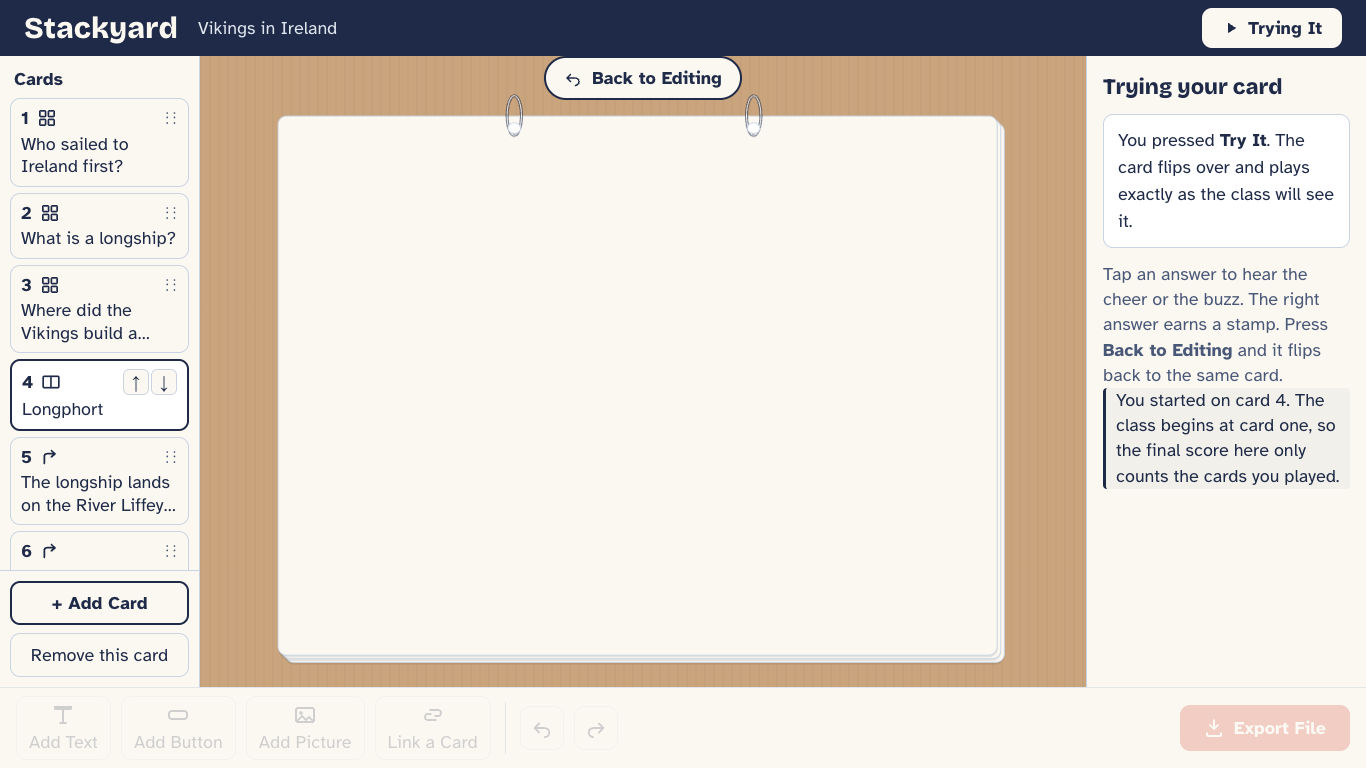
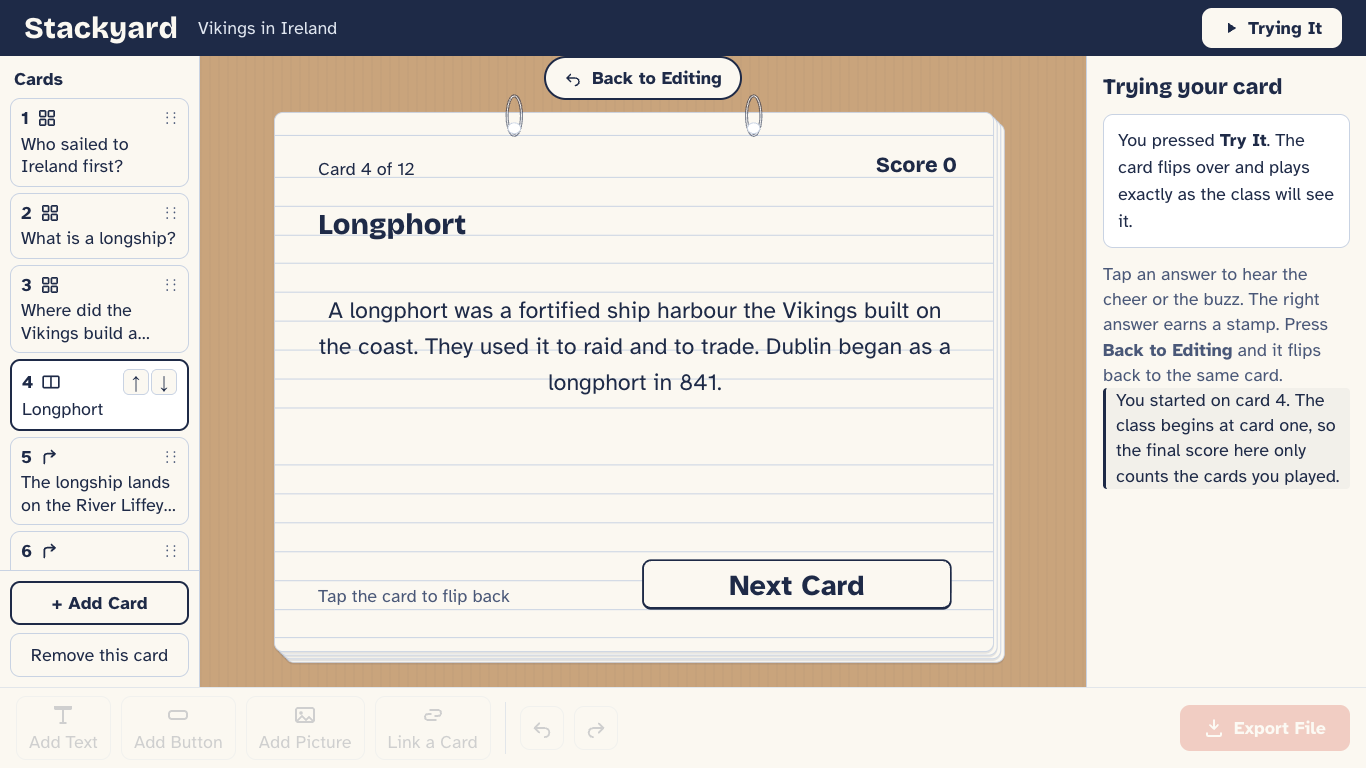
fix: finish round-3 fixes — notices clear, fixed flash back layout, Play Again; suite green

diff --git a/scripts/export-screens.ts b/scripts/export-screens.ts
@@ -15,7 +15,7 @@ import { writeFileSync, mkdirSync } from "node:fs";
 import path from "node:path";
 import { fileURLToPath } from "node:url";
 import { exportStack } from "../server/exporter.js";
-import { vikingsStack } from "../src/shared/readyMadeStacks.js";
+import { vikingsStack, irishWordsStack } from "../src/shared/readyMadeStacks.js";
 import { validate } from "../src/shared/validator.js";
 import type { Stack } from "../src/shared/types.js";
 
@@ -55,13 +55,44 @@ await write(
 // A flash-BACK screenshot variant: the exported flash file with a tiny appended
 // script that taps the live flash surface once it mounts, so headless Chrome
 // captures the explanation side. Screenshot aid only; never shipped.
+const autoFlip = `<script>(function(){var n=0;function f(){var s=document.querySelector('.sy-flash');if(s&&s.querySelector('.sy-flash-term')){s.click();setTimeout(function(){var c=document.querySelector('.sy-card');if(c)c.style.animation='none';},60);}else if(n++<80){setTimeout(f,50);}}setTimeout(f,300);})();</script>`;
+
 {
   const flashHtml = await exportStack(
     openOn(vikingsStack(), (t) => t === "Longphort"),
   );
-  const autoFlip = `<script>(function(){var n=0;function f(){var s=document.querySelector('.sy-flash');if(s&&s.querySelector('.sy-flash-term')){s.click();setTimeout(function(){var c=document.querySelector('.sy-card');if(c)c.style.animation='none';},60);}else if(n++<80){setTimeout(f,50);}}setTimeout(f,300);})();</script>`;
   const withFlip = flashHtml.replace("</body>", autoFlip + "</body>");
   const out = path.join(outDir, "exported-flash-back.html");
   writeFileSync(out, withFlip, "utf8");
   console.log(`wrote ${out} (${withFlip.length} bytes)`);
+}
+
+// The Irish-words deck flash BACK — the exact deck whose back layout the round-3
+// verdict flagged (explanation centred, "Next Card" over the hint). Export it
+// opening on the first Irish flash card and auto-flip to the back, so the
+// re-shoot proves the one fixed back layout (term top-left, body left-aligned,
+// hint bottom-left, Next Card bottom-right, no overlap) on the Irish positions.
+{
+  const irishFlashBack = await exportStack(
+    openOn(irishWordsStack(), (t) => t === "Dia duit"),
+  );
+  const withFlip = irishFlashBack.replace("</body>", autoFlip + "</body>");
+  const out = path.join(outDir, "exported-irish-back.html");
+  writeFileSync(out, withFlip, "utf8");
+  console.log(`wrote ${out} (${withFlip.length} bytes)`);
+}
+
+// The end card of the Vikings deck, showing the stamp collection and the new
+// "Play Again" tab. The exported file opens on the first card, so move the end
+// card to the front for the screenshot and seed a score so some stamps are
+// earned. Screenshot aid only; the real export keeps the authored order.
+{
+  const stack = vikingsStack();
+  const end = stack.cards.find((c) => c.kind === "end")!;
+  const rest = stack.cards.filter((c) => c.id !== end.id);
+  const endFirst: Stack = { ...stack, cards: [end, ...rest] };
+  const html = await exportStack(endFirst);
+  const out = path.join(outDir, "exported-end.html");
+  writeFileSync(out, html, "utf8");
+  console.log(`wrote ${out} (${html.length} bytes)`);
 }

diff --git a/tests/maker/sticky-notice.test.ts b/tests/maker/sticky-notice.test.ts
@@ -37,6 +37,14 @@ async function flush(times = 4): Promise<void> {
   }
 }
 
+/** Poll until `pred()` is truthy or the attempt budget runs out. */
+async function waitFor(pred: () => boolean, tries = 120): Promise<void> {
+  for (let i = 0; i < tries; i++) {
+    if (pred()) return;
+    await new Promise((r) => setTimeout(r, 5));
+  }
+}
+
 /** A stack whose FIRST card is already full (an element reaches the canvas
  *  floor), so Add Text/Add Button is rejected with the card-full notice. The
  *  second card has room. */
@@ -142,25 +150,23 @@ describe("sticky 'card full' notice (round 3, P1 #1)", () => {
     const pill = root.querySelector<HTMLButtonElement>(".try-pill");
     expect(pill).not.toBeNull();
 
-    // The pill actually returns to the editor.
+    // The pill actually returns to the editor. Back to Editing flips the card
+    // out (240ms) before switching screens, so poll for the swap.
     pill!.click();
-    await flush(10);
+    await waitFor(() => root.querySelector(".tryit-area") === null, 200);
+    await flush();
     expect(root.querySelector(".tryit-area")).toBeNull();
     expect(root.querySelector(".workspace")).not.toBeNull();
   });
 
   it("the Back to Editing pill is stacked above any notice (z-index)", async () => {
-    localStorage.setItem(STORAGE_KEY, JSON.stringify(fullFirstCardStack()));
-    const root = mountApp();
-    await flush();
-    root.querySelector<HTMLButtonElement>(".tryit")!.click();
-    await flush();
-
-    // The shipped stylesheet gives .try-pill a positive z-index so it can never
-    // sit under a banner.
-    const css = Array.from(document.querySelectorAll("style"))
-      .map((s) => s.textContent ?? "")
-      .join("\n");
+    // The Maker stylesheet (styles.css) is loaded by Vite in the browser, not
+    // injected in the jsdom test env, so assert the shipped rule at source: the
+    // pill carries an explicit position + positive z-index so it can never sit
+    // under the in-flow notice banner. (Same source-reading approach as the
+    // play-overlay "uses the same mountPlayer" test.)
+    const { readFileSync } = await import("node:fs");
+    const css = readFileSync("src/editor/styles.css", "utf8");
     const rule = css.match(/\.try-pill\s*\{([^}]+)\}/)?.[1] ?? "";
     expect(rule).toMatch(/z-index\s*:\s*\d+/);
     expect(rule).toMatch(/position\s*:\s*relative/);

diff --git a/vitest.config.ts b/vitest.config.ts
@@ -26,6 +26,7 @@ export default defineConfig({
       ["tests/timing-endcard.test.ts", "jsdom"],
       ["tests/play-through.test.ts", "jsdom"],
       ["tests/flash-play.test.ts", "jsdom"],
+      ["tests/play-again-flash-back.test.ts", "jsdom"],
       // Maker UI tests (Preact components) need a DOM.
       ["tests/maker/app-shell.test.ts", "jsdom"],
       ["tests/maker/start-screen.test.ts", "jsdom"],
@@ -35,6 +36,7 @@ export default defineConfig({
       ["tests/maker/inspector.test.ts", "jsdom"],
       ["tests/maker/toolbar.test.ts", "jsdom"],
       ["tests/maker/play-overlay.test.ts", "jsdom"],
+      ["tests/maker/sticky-notice.test.ts", "jsdom"],
       ["tests/maker/export-download.test.ts", "jsdom"],
       ["tests/maker/persistence-wiring.test.ts", "jsdom"],
       ["tests/maker/a11y.test.ts", "jsdom"],

diff --git a/.kiro/specs/maker/tasks.md b/.kiro/specs/maker/tasks.md
@@ -978,3 +978,69 @@ and Back to Editing flips the card back with the same animation. ✓
 **Done when:** the small polish items in the verdict (full-card placement,
 centred branch labels, end-card preview, Try It inspector spacing + score scope,
 right-answer reveal) are addressed. ✓
+
+### TASK-R13: Built-app verdict round 3 — sticky notice, flash back, small items — Done
+**Refs:** `docs/design/review/MAKER_MOCKUPS_JUDGE.md` "Built app verdict, round 3" P1 #1, P1 #2, P2 #3, #4, #5
+
+> **Done (the three items the 7.8 verdict put at the bar):**
+>
+> 1. **The "This card is full" notice no longer sticks or traps Try It.** The
+>    notice is `EditorScreen` component state; it was only cleared on the next
+>    toolbar action, so it survived a card change and the Try It toggle (the
+>    screen is reused for both, so it never remounted) and in Try It it pushed
+>    the canvas down under the "Back to Editing" pill. Now:
+>    - `CardList.select()` calls `onNotice(null)`, so moving to another card
+>      clears it;
+>    - the Try It toggle in `EditorScreen` calls `setNotice(null)` on enter and
+>      leave, and the banner is gated `notice !== null && !trying`, so it never
+>      renders in the play view;
+>    - `.try-pill` gets `position: relative; z-index: 50` so it always stacks
+>      above any banner, and the pill works.
+>    `tests/maker/sticky-notice.test.ts` drives the real `App`: a full card
+>    raises the notice, a card change clears it, entering Try It clears it and
+>    the pill returns to the editor, and the shipped `.try-pill` rule carries the
+>    z-index.
+>
+> 2. **One fixed flash-BACK layout regardless of the deck's element positions.**
+>    `renderFlashCard` already derives the back from fixed `.sy-flash-*` CSS
+>    classes (it never reads authored x/y), but the Irish deck showed "Next Card"
+>    sitting over "Tap the card to flip back". The hint is now capped to the
+>    left column (`width: 344px`, ends at x=392, left-aligned) and the Next Card
+>    starts at x=408, so they can never overlap; the back stays term top-left,
+>    body left-aligned, hint bottom-left, Next Card bottom-right. A new
+>    `tests/play-again-flash-back.test.ts` renders a deliberately COLLIDING deck
+>    (term bottom-right, back centred, Next Card top-left) and the real Irish
+>    deck and asserts the fixed classes, no leaked inline positions, and the
+>    hint/Next-Card rects not intersecting.
+>
+> 3. **The small items:**
+>    - **Sentence ↔ deck agree.** The pre-filled example said "A 10-card quiz"
+>      but the Vikings deck is 12 cards (6 quiz, 2 flash, 3 story, 1 end). The
+>      sentence now reads "A lesson about the Vikings in Ireland with quiz
+>      questions and a story choice, the right answer plays a cheer" (both the
+>      live and `__demoError` copies).
+>    - **End-card preview total.** The inspector's score preview was a hard-coded
+>      "Score 3 of 8". It now computes the deck's real quiz-card count and shows
+>      "Score __ of {N}" ("Score __ of 6" for Vikings), the same denominator the
+>      player uses.
+>    - **Play Again in the exported file.** `renderEndCard` now renders a navy
+>      "Play Again" paper tab (never stamp red) under the stamp grid; it calls a
+>      new `resetRuntime(state)` (score back to 0, auto-nav guard reset) then
+>      `navigate(firstCardId, false)`, so a class gets a clean second go with the
+>      flip. Tested in `play-again-flash-back.test.ts`: the button renders,
+>      zeroes the score and navigates to card 1.
+>
+> Two new jsdom test files wired into `vitest.config.ts`'s per-file glob list.
+> Full suite **489 pass**, `tsc` clean, player bundle 9.46 KB gzipped (of 50 KB).
+> Re-shot the Irish answer side (new `exported-player-irish-back`), Try It
+> (`play-flash-back`, `play`), the end card (`exported-player-end`,
+> `editor-end`) and the exported player (`exported-player`); the Irish back is
+> left-aligned with the hint and Next Card clear of each other, and the end card
+> shows "Score 0 of 6" with the Play Again tab.
+
+**Done when:** the card-full notice clears on the next action / card change /
+mode switch and never covers Back to Editing; the flash back is one fixed layout
+with no hint/Next-Card overlap on the Irish and Vikings decks; the sentence and
+deck card counts agree; the end-card preview total matches the deck; and the
+exported end card has a working Play Again that restarts from card 1 with the
+score reset. `npm test` (489) and `tsc` green. ✓

diff --git a/docs/KIRO_LOG.md b/docs/KIRO_LOG.md
@@ -108,3 +108,10 @@ Kept from day one for the Kiroween write-up.
 - **The toolbar stayed live during Try It.** Add Text while trying silently edited the card. The whole toolbar is now dimmed and every control disabled (visually and for keyboard) while trying; "Back to Editing" flips the card out with the card-exit animation before returning.
 - **Polish:** adding an element to a full card is now rejected with "This card is full…" rather than dropping it on top of another; the editor "→ Card N" branch labels are centred and distinct; the end-card inspector shows a read-only score preview instead of a stray heading; the Try It inspector has a paper box and spacing and, when started mid-deck, says the score only counts the cards played; and a wrong answer briefly reveals the right tile with a faint ink outline before advancing.
 - 478/478 tests, `tsc` clean, player bundle 9.08 KB gzipped (of 50 KB). Re-shot every built screen plus new flash-front/back, story and exported-player flash/story shots, and compared by eye against the mockups.
+
+## 5 Nov 2026: third built-app verdict (6.5 → 7.8) and the last fixes to the bar
+- The judge drove the app a third time and scored it 7.8, just under the 8 bar (`docs/design/review/MAKER_MOCKUPS_JUDGE.md`, "Built app verdict, round 3"). Every flow a judge is likely to try now worked end to end offline; three things were left. We fixed them, each with `npm test` + `tsc` green and a re-shoot. (A network error cut the first attempt off mid-edit, leaving the changes in the tree with 11 new tests failing; the only thing actually broken was that the two new test files weren't registered in `vitest.config.ts`'s jsdom glob list, so they ran under Node with no `document`. Wired them in and finished.)
+- **The "This card is full" notice stuck and could trap Try It.** The notice is `EditorScreen` component state and was only cleared on the next toolbar action, so it survived a card change and the Try It toggle (the screen is reused for both views, so it never remounts) and in Try It it pushed the canvas down under the "Back to Editing" pill, which then did nothing. Now the card list clears it on selecting another card, the Try It toggle clears it on enter and leave and the banner never renders in the play view, and `.try-pill` gets a positive `z-index` so it always sits above any banner. A test drives the real app: raise the notice, change card → gone; enter Try It → gone and the pill returns to the editor.
+- **The flash back collided on the Irish deck.** The renderer already lays the back out from fixed CSS (it never reads the authored x/y), but the full-width flip hint ran under the bottom-right "Next Card", so "Tap the card to flip back" read as "Tap the card". The hint is now capped to the left column and left-aligned, clear of the Next Card — one fixed back layout (term top-left, body left-aligned, hint bottom-left, Next Card bottom-right) on any deck. A test renders a deliberately colliding deck and the real Irish deck and asserts the fixed classes and that the hint and Next-Card rects don't intersect.
+- **The small items.** The pre-filled sentence said "A 10-card quiz" while the Vikings deck is 12 cards; it now describes the real lesson (quiz questions and a story choice). The end-card inspector preview was a hard-coded "Score 3 of 8"; it now shows the deck's real quiz-card total ("Score __ of 6"), the same denominator the player uses. And the exported end card gained a navy "Play Again" tab (never stamp red) that resets the score and auto-nav guard via a new `resetRuntime` and goes back to card 1 with the flip, so a class can go again without reloading the file.
+- 489/489 tests, `tsc` clean, player bundle 9.46 KB gzipped (of 50 KB). Re-shot the Irish answer side (new `exported-player-irish-back`), Try It, the end card (new `exported-player-end`, showing "Score 0 of 6" and the Play Again tab) and the exported player; the Irish back is left-aligned with the hint and Next Card clear of each other.
